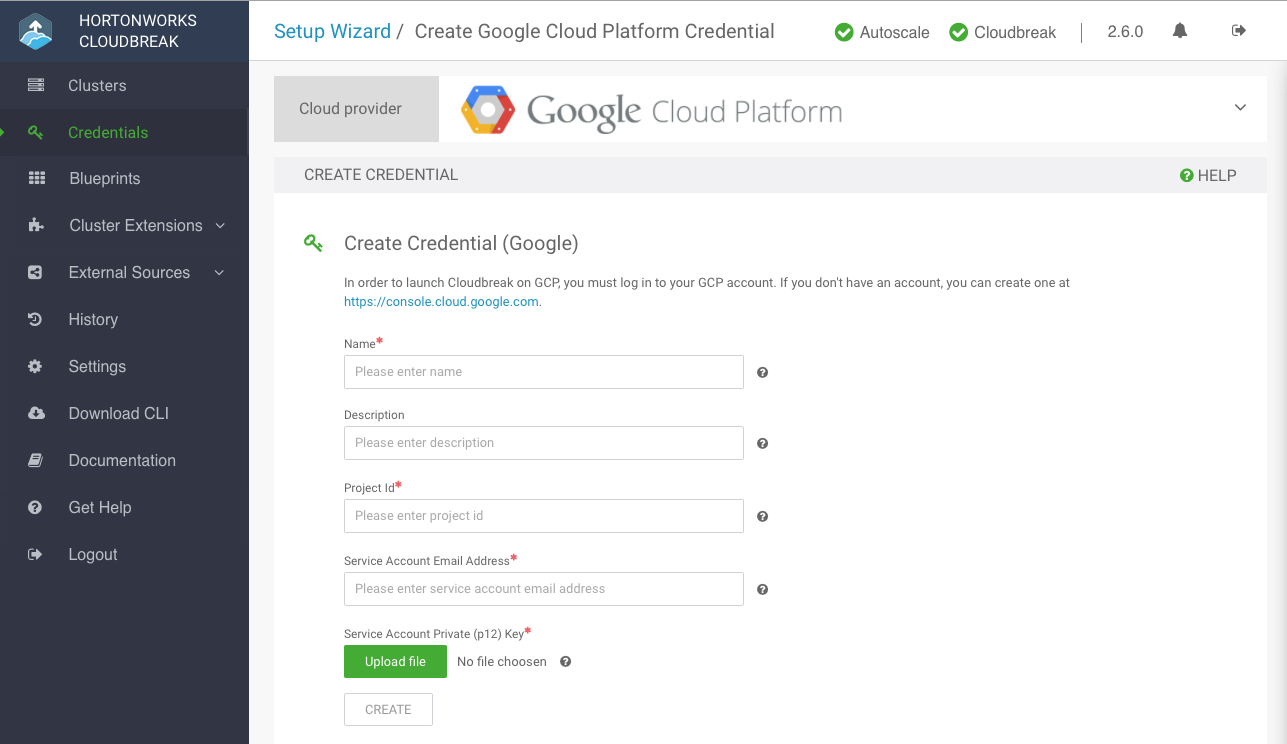
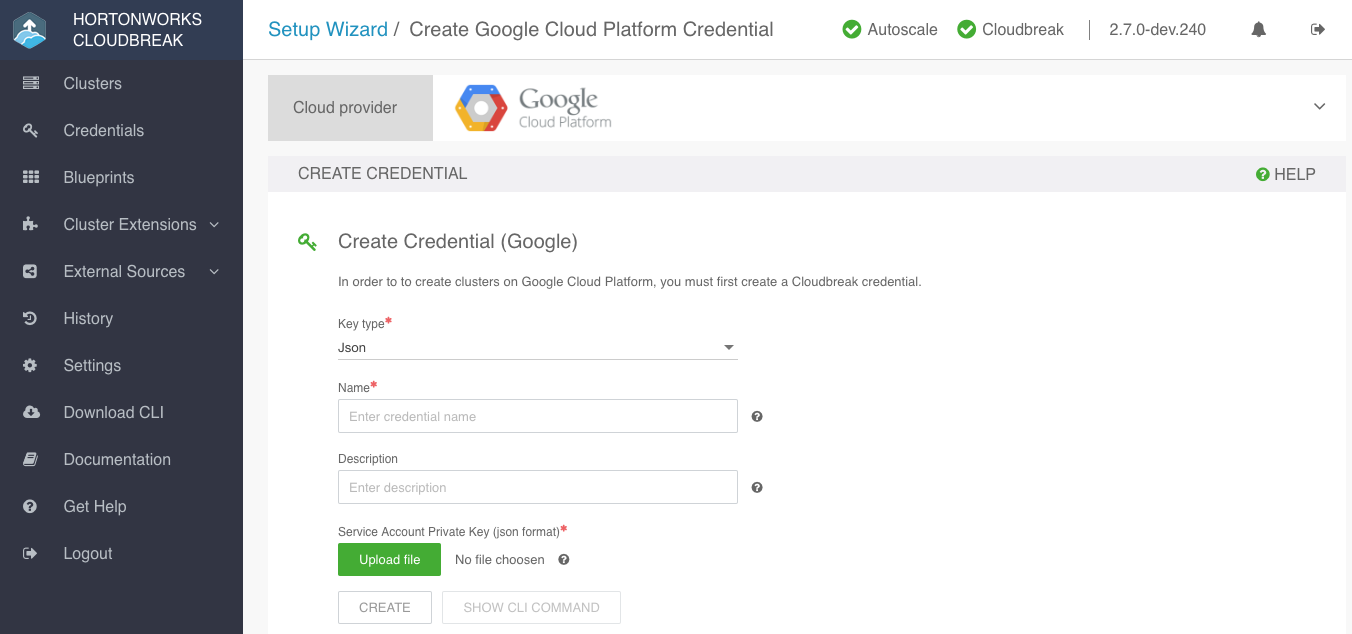
Updates for GCP

diff --git a/docs/gcp-launch.md b/docs/gcp-launch.md
@@ -146,13 +146,12 @@ Cloudbreak works by connecting your GCP account through this credential, and the
 
     | Parameter | Description |
 |---|---|
+| Key type | Select JSON or P12 (deprecated). |
 | Name | Enter a name for your credential. |
 | Description | (Optional) Enter a description. | 
-| Project Id | Enter the project ID. You can obtain it from your GCP account by clicking on the name of your project at the top of the page and copying the **ID**. |
-| Service Account Email Address | "Service account ID" value for your service account created in prerequisites. You can find it on GCP at **IAM & Admin** > **Service accounts**. |
-| Service Account Private (JSON) Key | Upload the JSON key that you created in the prerequisites when creating a service account. |
-
-    > Although earlier versions of Cloudbreak supported keys in P12 format, all new keys specified during the Cloudbreak credential creation must be in JSON format. 
+| Project Id | (Only required for P12 key type) Enter the project ID. You can obtain it from your GCP account by clicking on the name of your project at the top of the page and copying the **ID**. |
+| Service Account Email Address | (Only required for P12 key type) "Service account ID" value for your service account created in prerequisites. You can find it on GCP at **IAM & Admin** > **Service accounts**. |
+| Service Account Private Key | Upload the key that you created in the prerequisites when creating a service account. |
 
 4. Click **Create**.
 

diff --git a/docs/gcp-pre.md b/docs/gcp-pre.md
@@ -12,8 +12,6 @@ Once you log in to your GCP account, you must either create a project or use an 
 
 In order to launch clusters on GCP via Cloudbreak, you must have a service account that Cloudbreak can use to create resources. In addition, you must also have a JSON key associated with the account. 
 
-> Although earlier versions of Cloudbreak supported keys in P12 format, all new keys specified during the Cloudbreak credential creation must be in JSON format. 
-
 The service account must have the following roles are enabled:
 
 * Compute Engine > Compute Image User   
